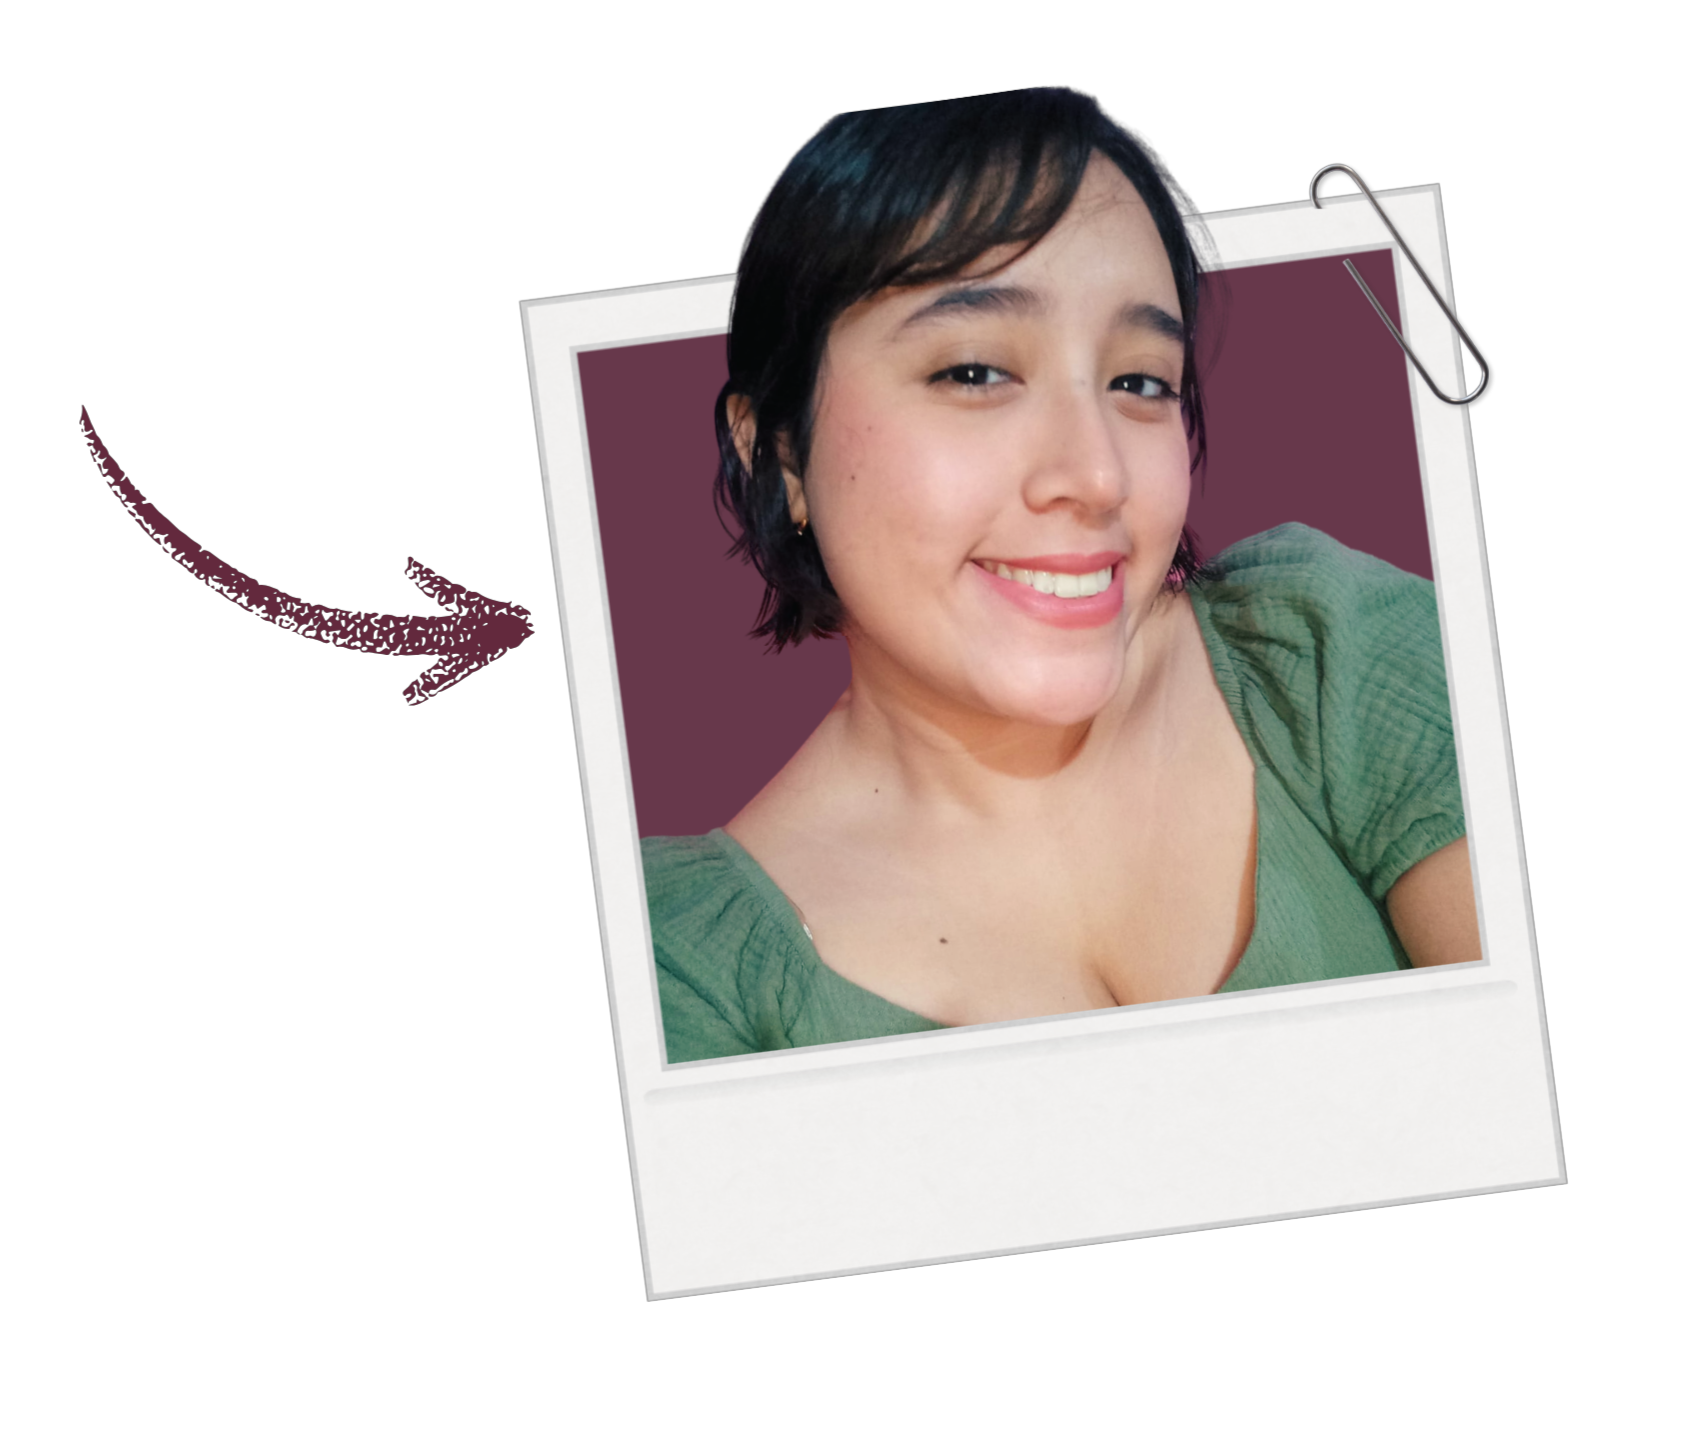
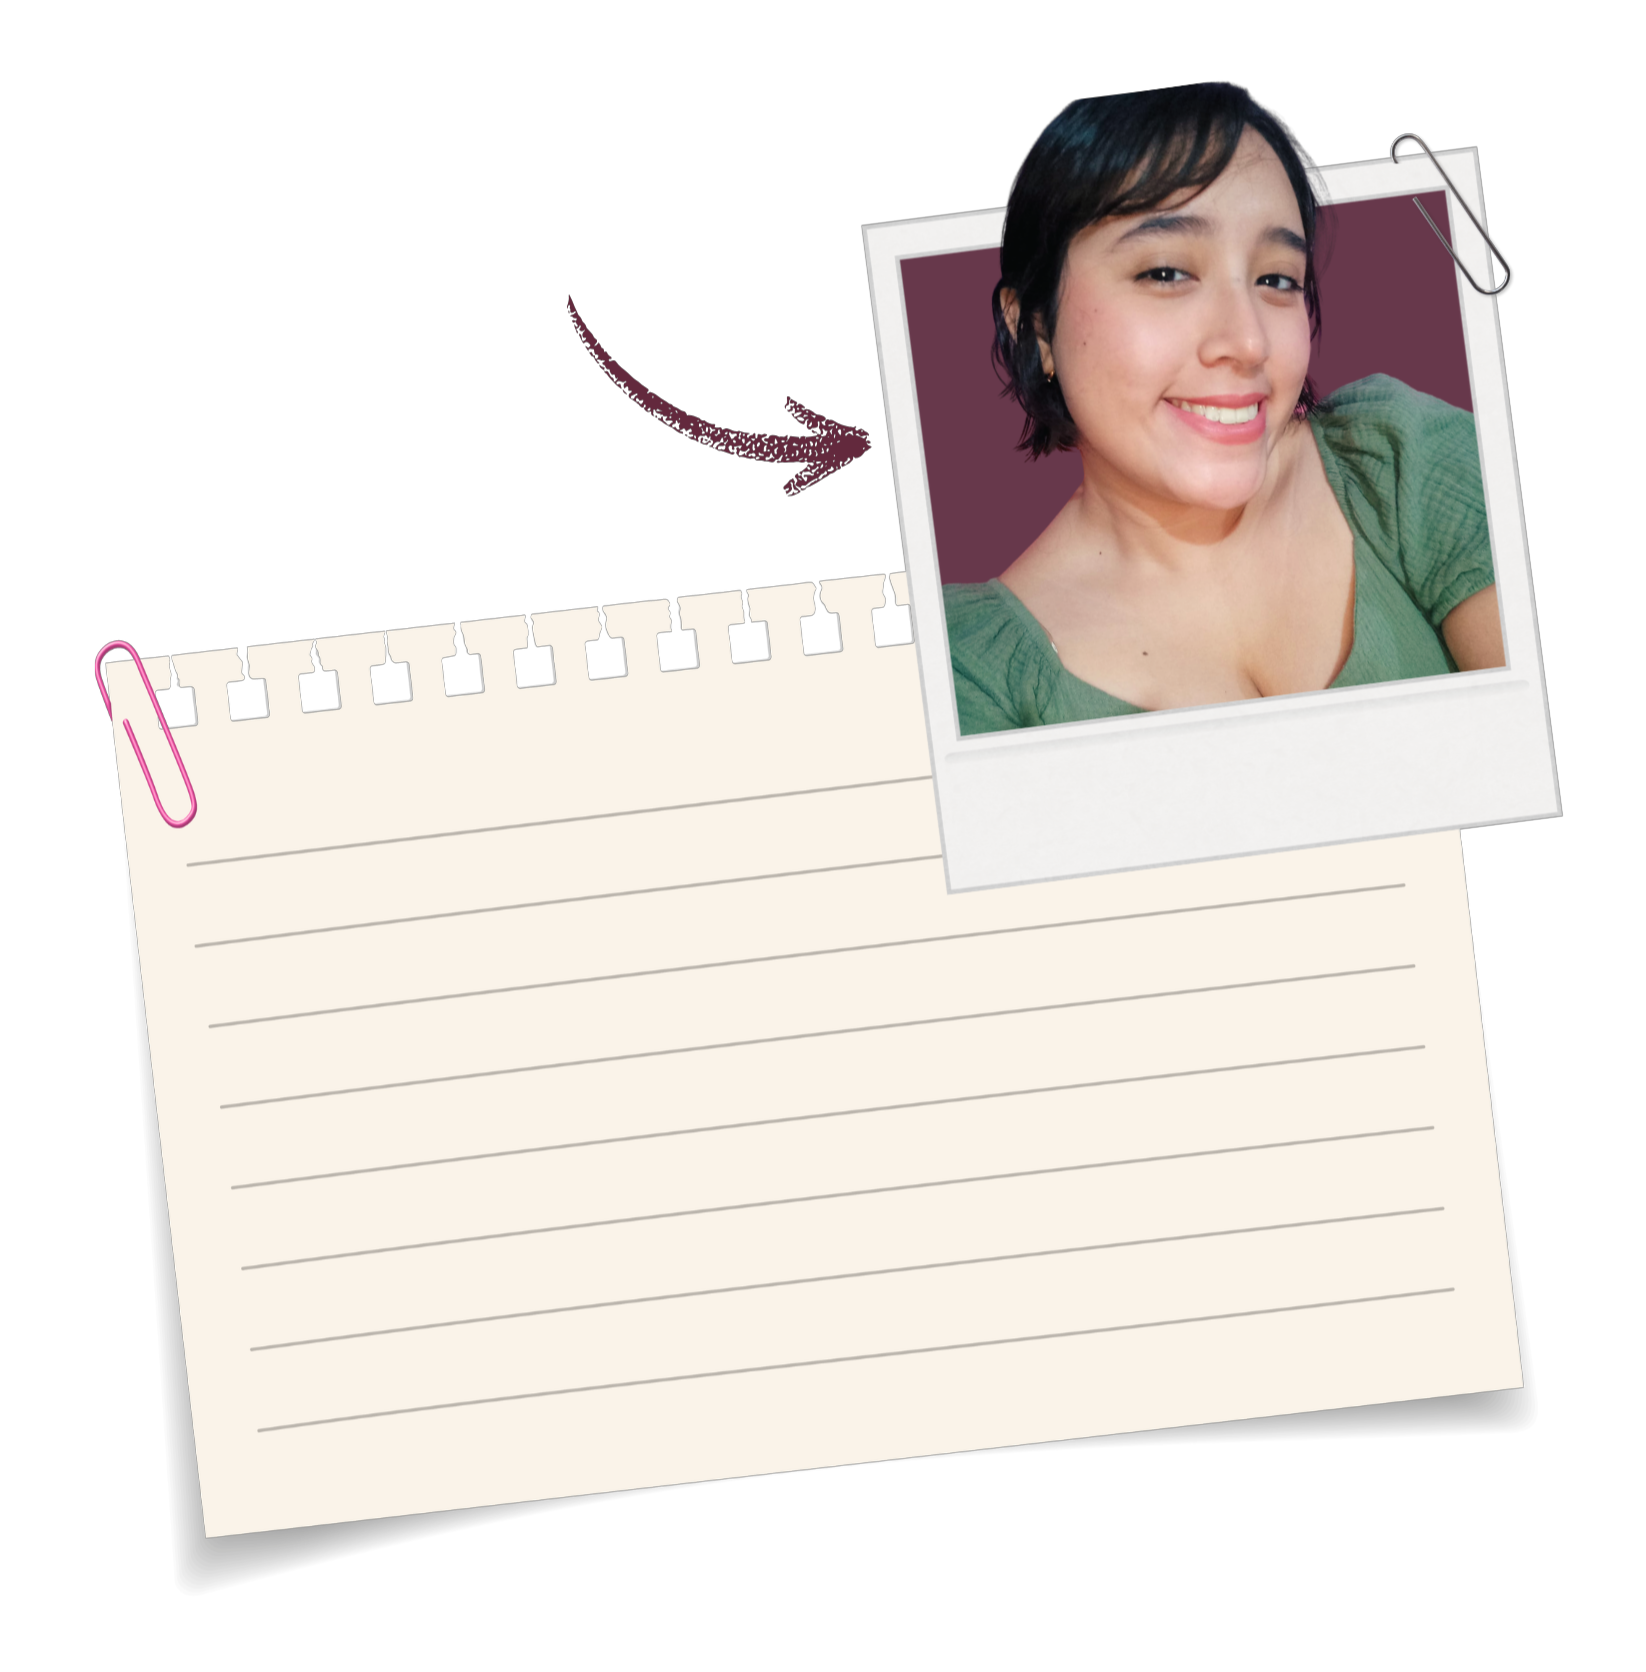
Se hizo cambios en la imagen añadida

diff --git a/02-maquetacion-CV/styles.css b/02-maquetacion-CV/styles.css
@@ -248,11 +248,11 @@ header{
     display: flex;
     justify-content: flex-end;
     margin-right: 390px;
-    margin-top: -160px;
+    margin-top: -180px;
 }
 
 .img-yo{
-    width: 440px;
+    width: 600px;
     height: auto;
 }
 
